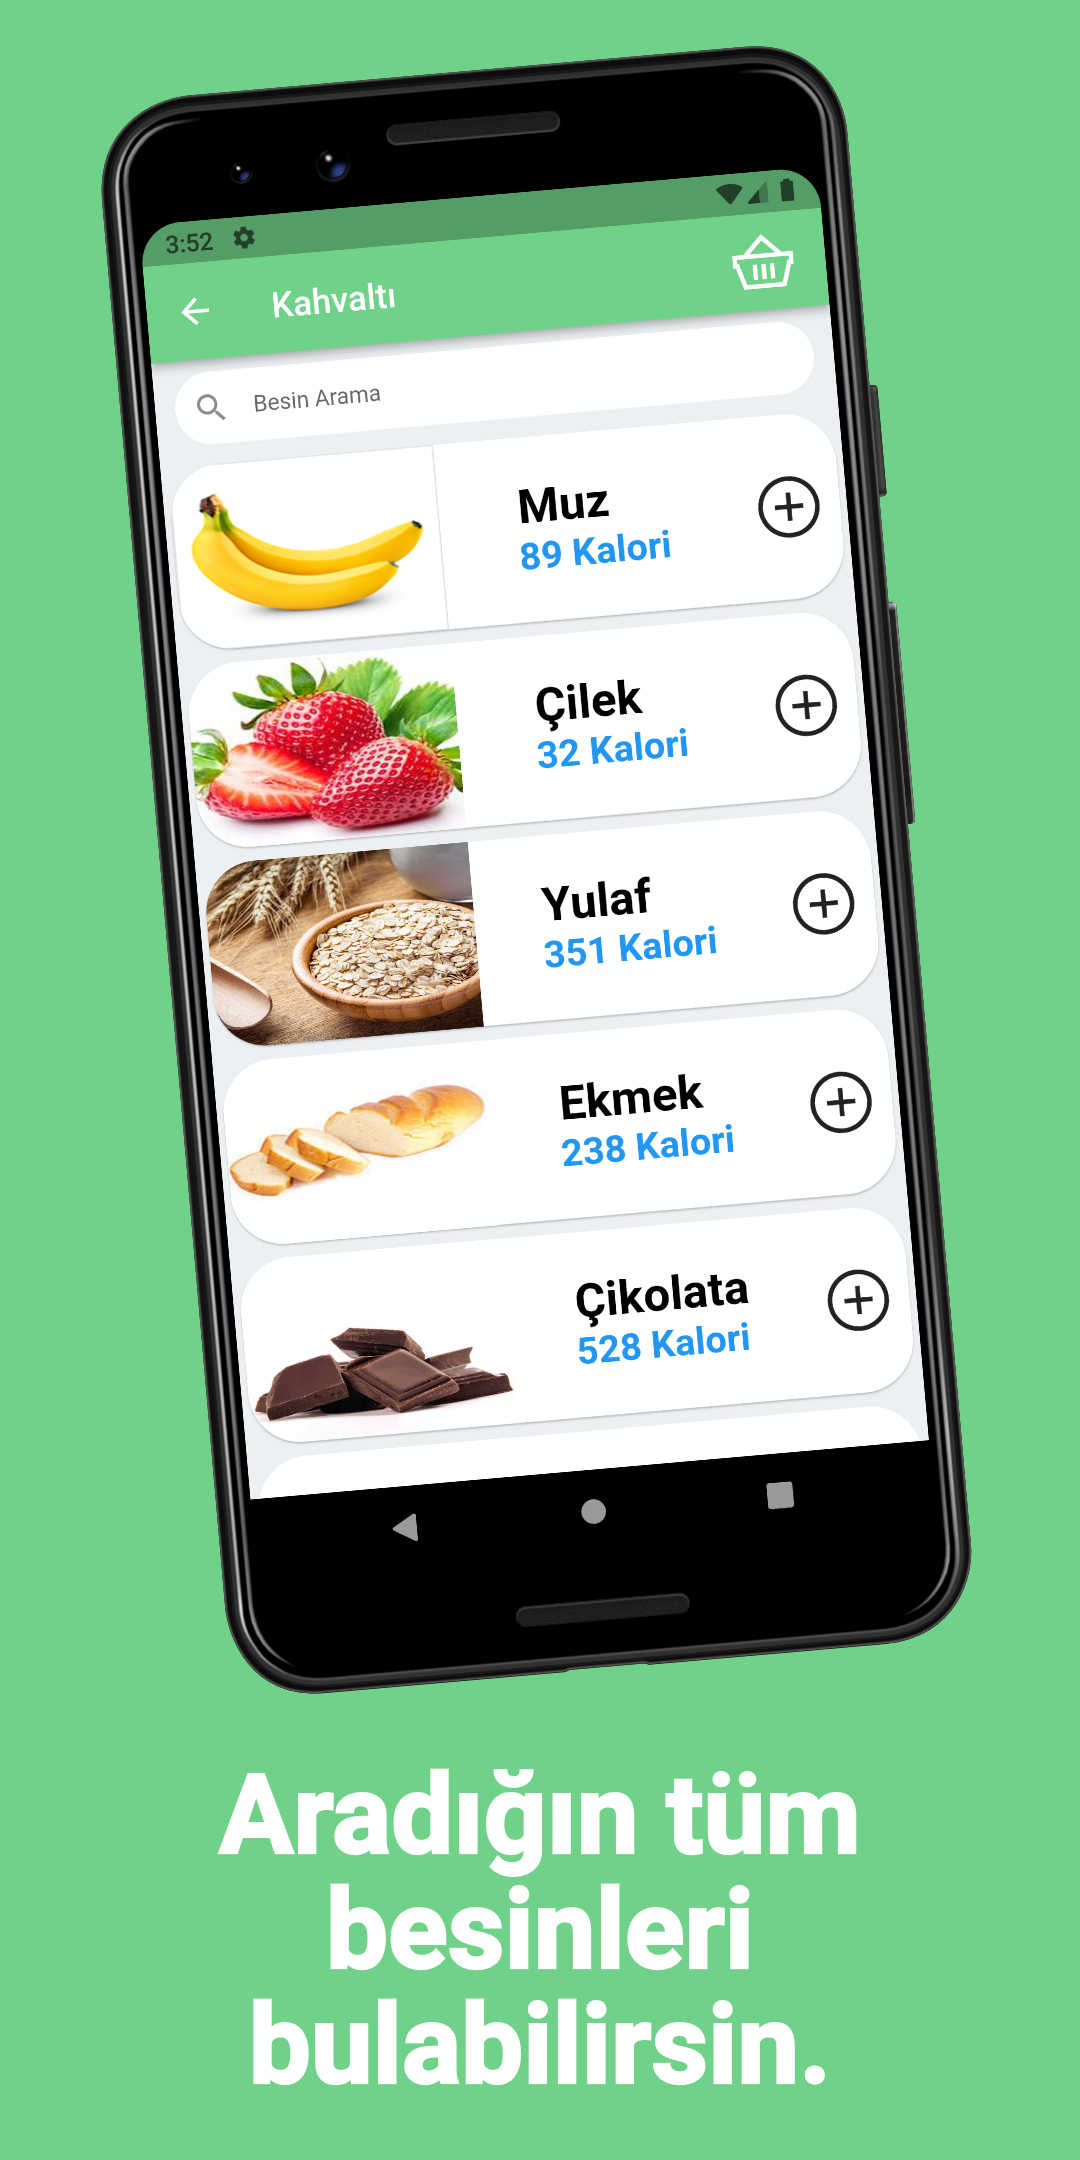
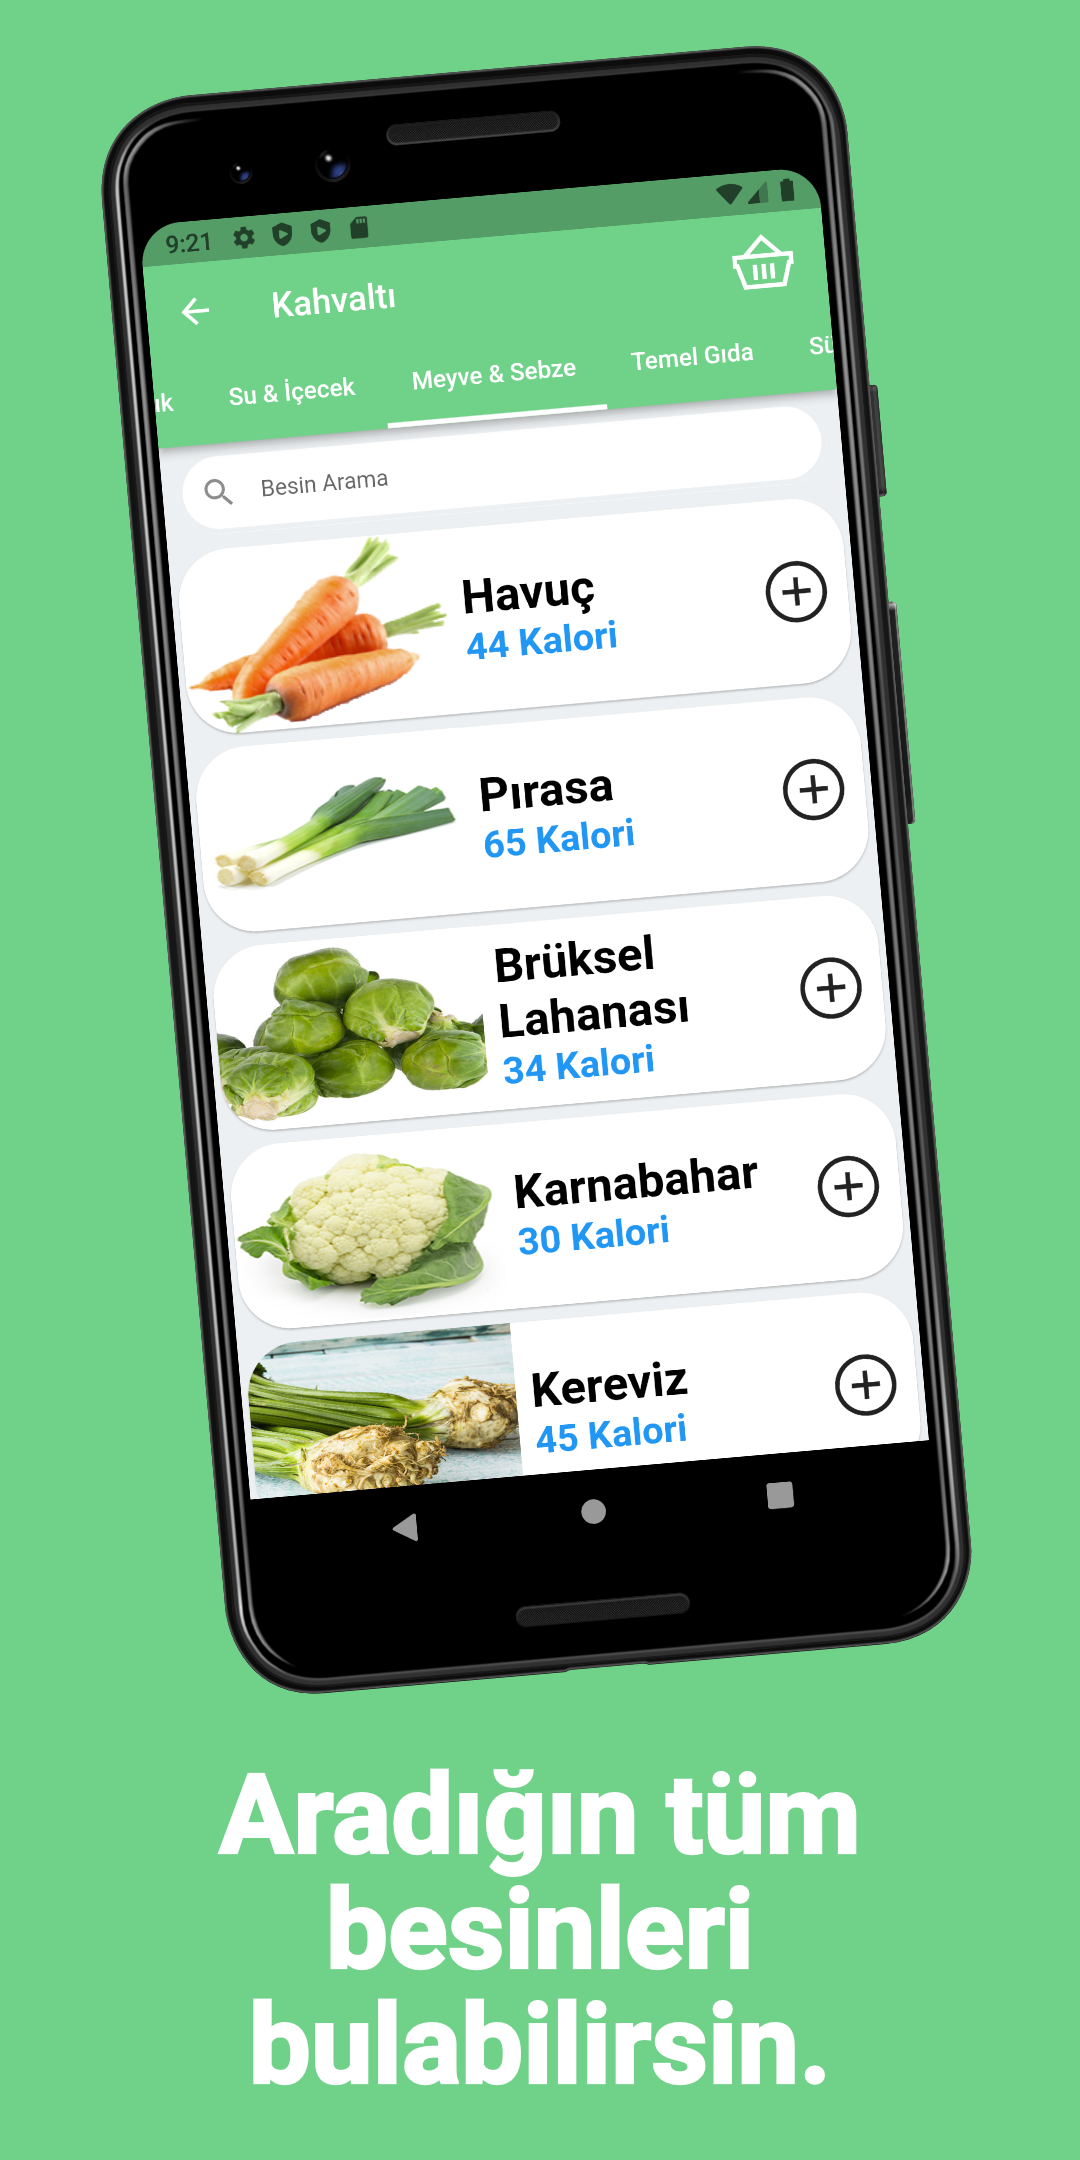
food categories

diff --git a/lib/screens/besin_ekle.dart b/lib/screens/besin_ekle.dart
@@ -25,6 +25,7 @@ class _BesinEkleState extends State<BesinEkle> {
   final besinGram = TextEditingController();
 
   List<Besin> arananBesin = [];
+  List<Besin> aranacakBesin = [];
 
   @override
   void initState() {
@@ -32,17 +33,29 @@ class _BesinEkleState extends State<BesinEkle> {
     super.initState();
 
     setState(() {
-      arananBesin = fController.besinler;
+      filtrele(0);
     });
   }
 
   onSearch(String search) {
     setState(() {
-      arananBesin = fController.besinler
+      arananBesin = aranacakBesin
           .where((besinler) =>
               besinler.besinAd.toString().toLowerCase().contains(search))
           .toList();
     });
+  }
+
+  filtrele(int kategoriId) {
+    arananBesin.clear();
+    setState(() {
+      for (int i = 0; i < fController.besinler.length; i++) {
+        if (fController.besinler[i].kategoriId == kategoriId) {
+          arananBesin.add(fController.besinler[i]);
+        }
+      }
+    });
+    aranacakBesin = arananBesin;
   }
 
   Future<void> hareketKontrol(
@@ -67,100 +80,132 @@ class _BesinEkleState extends State<BesinEkle> {
     }
   }
 
+  TabBar get tabBar => TabBar(
+        unselectedLabelColor: Colors.white,
+        physics: BouncingScrollPhysics(),
+        onTap: (int) {
+          filtrele(int);
+        },
+        isScrollable: true,
+        indicatorColor: Colors.white,
+        indicatorWeight: 3,
+        labelColor: Colors.white,
+        tabs: const [
+          Tab(text: "Et, Tavuk & Balık"),
+          Tab(text: "Su & İçecek"),
+          Tab(text: "Meyve & Sebze"),
+          Tab(text: "Temel Gıda"),
+          Tab(text: "Süt Ürünleri"),
+          Tab(text: "Kahvaltılık"),
+          Tab(text: "Atıştırmalık"),
+        ],
+      );
+
   @override
   Widget build(BuildContext context) {
-    return Scaffold(
-      backgroundColor: const MyApp().bgColor,
-      appBar: AppBar(
-        title: Text(c.ogun.value),
-        actions: [
-          Padding(
-            padding: const EdgeInsets.only(right: 16.0),
-            child: IconButton(
-                onPressed: () {
-                  Navigator.pushNamed(context, "/routeEklenenBesinler");
-                },
-                icon: const Icon(
-                  LineIcons.shoppingBasket,
-                  size: 40,
-                )),
-          ),
-        ],
-      ),
-      body: SizedBox(
-        height: Get.height,
-        width: Get.width,
-        child: Column(
-          mainAxisAlignment: MainAxisAlignment.spaceAround,
-          children: [
-            BuildTextFieldWidget(
-              onChanged: (value) => onSearch(value),
-              kontrol: false,
-              control: besinArama,
-              icon: Icons.search,
-              klavyetur: TextInputType.text,
-              str: "Besin Arama",
+    return DefaultTabController(
+      length: 7,
+      child: Scaffold(
+        backgroundColor: const MyApp().bgColor,
+        appBar: AppBar(
+          bottom: PreferredSize(
+            preferredSize: tabBar.preferredSize,
+            child: ColoredBox(
+              color: Color(0xff70D188),
+              child: tabBar,
             ),
-            Expanded(
-              child: ListView.builder(
-                  physics: const BouncingScrollPhysics(),
-                  scrollDirection: Axis.vertical,
-                  itemCount: arananBesin.length,
-                  itemBuilder: (context, index) {
-                    return BuildBesinWidget(
-                      tiklama: () {
-                        buildDialog(arananBesin[index].besinAd.toString(), () {
-                          VeriModel veri = VeriModel(
-                              besinId: arananBesin[index].besinId!,
-                              besinGram: num.parse(besinGram.text),
-                              ogun: c.ogun.value,
-                              tarih: c.tarih.value);
-                          num gram = num.parse(besinGram.text);
-                          num kalori =
-                              (gram / 100 * arananBesin[index].kalori!);
-                          num karbonhidrat =
-                              (gram / 100 * arananBesin[index].karbonhidrat!);
-                          num protein =
-                              (gram / 100 * arananBesin[index].protein!);
-                          num yag = (gram / 100 * arananBesin[index].yag!);
-
-                          HesapModel hesap = HesapModel(
-                              kalori: kalori,
-                              karbonhidrat: karbonhidrat,
-                              protein: protein,
-                              yag: yag,
-                              ogun: c.ogun.value,
-                              tarih: c.tarih.value);
-
-                          hareketKontrol(veri, arananBesin[index].besinId!,
-                              c.ogun.value, num.parse(besinGram.text));
-                          hesapKontrol(hesap, arananBesin[index].besinId!,
-                              c.ogun.value, gram);
-
-                          Get.back();
-                          buildSnackBar(
-                              c.ogun.value,
-                              besinGram.text.toString() +
-                                  " gram " +
-                                  arananBesin[index].besinAd! +
-                                  " eklendi.",
-                              SnackPosition.BOTTOM);
-                          besinGram.clear();
-                        },
-                            BuildTextFieldWidget(
-                              str: "Gram",
-                              icon: LineIcons.weight,
-                              control: besinGram,
-                              klavyetur: TextInputType.number,
-                            ));
-                      },
-                      kontrol: besinGram,
-                      besinler: arananBesin,
-                      index: index,
-                    );
-                  }),
+          ),
+          title: Text(c.ogun.value),
+          actions: [
+            Padding(
+              padding: const EdgeInsets.only(right: 16.0),
+              child: IconButton(
+                  onPressed: () {
+                    Navigator.pushNamed(context, "/routeEklenenBesinler");
+                  },
+                  icon: const Icon(
+                    LineIcons.shoppingBasket,
+                    size: 40,
+                  )),
             ),
           ],
+        ),
+        body: SizedBox(
+          height: Get.height,
+          width: Get.width,
+          child: Column(
+            mainAxisAlignment: MainAxisAlignment.spaceAround,
+            children: [
+              BuildTextFieldWidget(
+                onChanged: (value) => onSearch(value),
+                kontrol: false,
+                control: besinArama,
+                icon: Icons.search,
+                klavyetur: TextInputType.text,
+                str: "Besin Arama",
+              ),
+              Expanded(
+                child: ListView.builder(
+                    physics: const BouncingScrollPhysics(),
+                    scrollDirection: Axis.vertical,
+                    itemCount: arananBesin.length,
+                    itemBuilder: (context, index) {
+                      return BuildBesinWidget(
+                        tiklama: () {
+                          buildDialog(arananBesin[index].besinAd.toString(),
+                              () {
+                            VeriModel veri = VeriModel(
+                                besinId: arananBesin[index].besinId!,
+                                besinGram: num.parse(besinGram.text),
+                                ogun: c.ogun.value,
+                                tarih: c.tarih.value);
+                            num gram = num.parse(besinGram.text);
+                            num kalori =
+                                (gram / 100 * arananBesin[index].kalori!);
+                            num karbonhidrat =
+                                (gram / 100 * arananBesin[index].karbonhidrat!);
+                            num protein =
+                                (gram / 100 * arananBesin[index].protein!);
+                            num yag = (gram / 100 * arananBesin[index].yag!);
+
+                            HesapModel hesap = HesapModel(
+                                kalori: kalori,
+                                karbonhidrat: karbonhidrat,
+                                protein: protein,
+                                yag: yag,
+                                ogun: c.ogun.value,
+                                tarih: c.tarih.value);
+
+                            hareketKontrol(veri, arananBesin[index].besinId!,
+                                c.ogun.value, num.parse(besinGram.text));
+                            hesapKontrol(hesap, arananBesin[index].besinId!,
+                                c.ogun.value, gram);
+
+                            Get.back();
+                            buildSnackBar(
+                                c.ogun.value,
+                                besinGram.text.toString() +
+                                    " gram " +
+                                    arananBesin[index].besinAd! +
+                                    " eklendi.",
+                                SnackPosition.BOTTOM);
+                            besinGram.clear();
+                          },
+                              BuildTextFieldWidget(
+                                str: "Gram",
+                                icon: LineIcons.weight,
+                                control: besinGram,
+                                klavyetur: TextInputType.number,
+                              ));
+                        },
+                        kontrol: besinGram,
+                        besinler: arananBesin,
+                        index: index,
+                      );
+                    }),
+              ),
+            ],
+          ),
         ),
       ),
     );

diff --git a/lib/models/besin.dart b/lib/models/besin.dart
@@ -1,6 +1,7 @@
 class Besin {
   int? _besinId;
   String? _besinAd;
+  int? _kategoriId;
   num? _kalori;
   num? _karbonhidrat;
   num? _protein;
@@ -10,6 +11,7 @@ class Besin {
   Besin(
       {int? besinId,
       String? besinAd,
+      int? kategoriId,
       int? kalori,
       double? karbonhidrat,
       double? protein,
@@ -42,6 +44,10 @@ class Besin {
   set besinId(int? besinId) => _besinId = besinId;
   String? get besinAd => _besinAd;
   set besinAd(String? besinAd) => _besinAd = besinAd;
+
+  int? get kategoriId => _kategoriId;
+  set kategoriId(int? kategoriId) => _kategoriId = kategoriId;
+
   num? get kalori => _kalori;
   set kalori(num? kalori) => _kalori = kalori;
   num? get karbonhidrat => _karbonhidrat;
@@ -50,12 +56,14 @@ class Besin {
   set protein(num? protein) => _protein = protein;
   num? get yag => _yag;
   set yag(num? yag) => _yag = yag;
+
   String? get besinUrl => _besinUrl;
   set besinUrl(String? besinUrl) => _besinUrl = besinUrl;
 
   Besin.fromJson(Map<String, dynamic> json) {
     _besinId = json['besinId'];
     _besinAd = json['besinAd'];
+    _kategoriId = json['kategoriId'];
     _kalori = json['kalori'];
     _karbonhidrat = json['karbonhidrat'];
     _protein = json['protein'];
@@ -67,6 +75,7 @@ class Besin {
     final Map<String, dynamic> data = <String, dynamic>{};
     data['besinId'] = _besinId;
     data['besinAd'] = _besinAd;
+    data['kategoriId'] = _kategoriId;
     data['kalori'] = _kalori;
     data['karbonhidrat'] = _karbonhidrat;
     data['protein'] = _protein;
